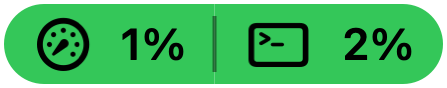
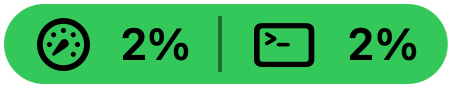
docs: re-render all menubar pill shots from one snapshot

diff --git a/README.md b/README.md
@@ -23,7 +23,7 @@ work between the two quotas. See [Codex usage](#codex-usage).
 
 <picture>
   <source media="(prefers-color-scheme: dark)" srcset="docs/screenshots/menubar-dark.png">
-  <img alt="menubar gauge" src="docs/screenshots/menubar-light.png" width="82">
+  <img alt="menubar gauge" src="docs/screenshots/menubar-light.png" width="84">
 </picture>
 &nbsp;&nbsp;&nbsp;&nbsp;
 <picture>
@@ -33,7 +33,7 @@ work between the two quotas. See [Codex usage](#codex-usage).
 &nbsp;&nbsp;&nbsp;&nbsp;
 <picture>
   <source media="(prefers-color-scheme: dark)" srcset="docs/screenshots/menubar-codex-dark.png">
-  <img alt="menubar pill showing Claude and Codex" src="docs/screenshots/menubar-codex-light.png" width="168">
+  <img alt="menubar pill showing Claude and Codex" src="docs/screenshots/menubar-codex-light.png" width="170">
 </picture>
 
 - A gauge icon + percentage rendered on a colour-shifted pill — the
